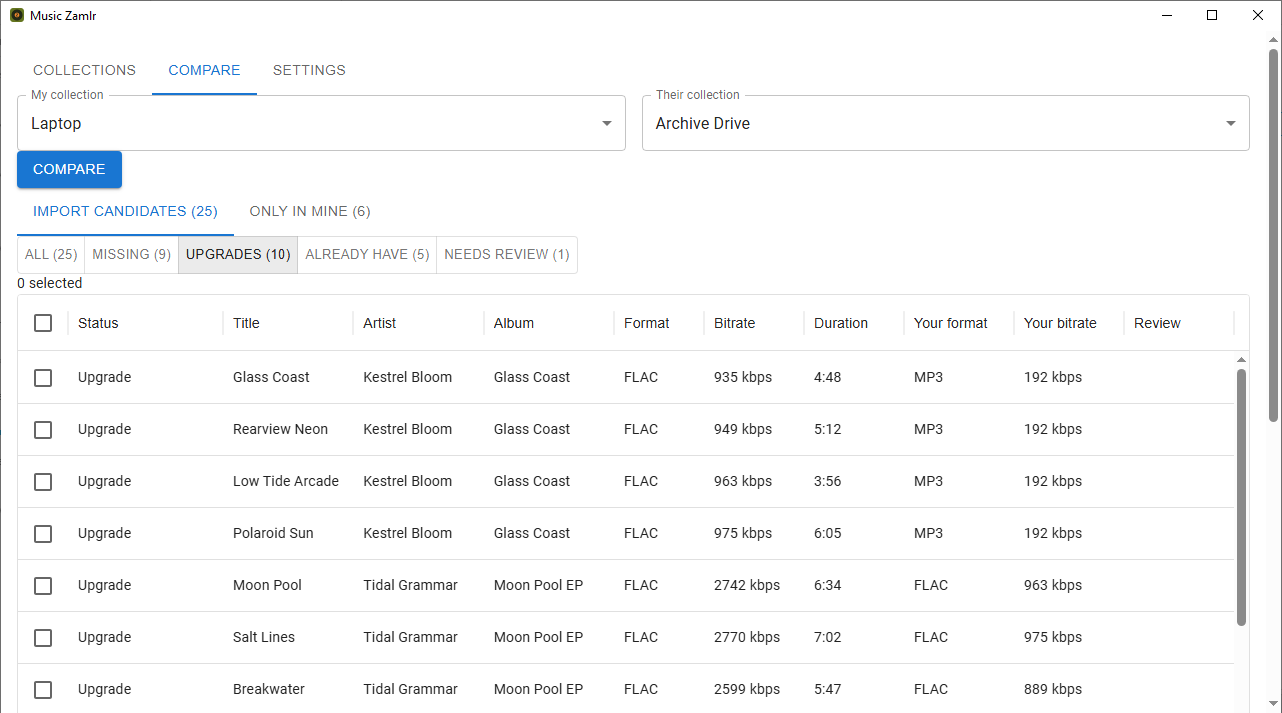
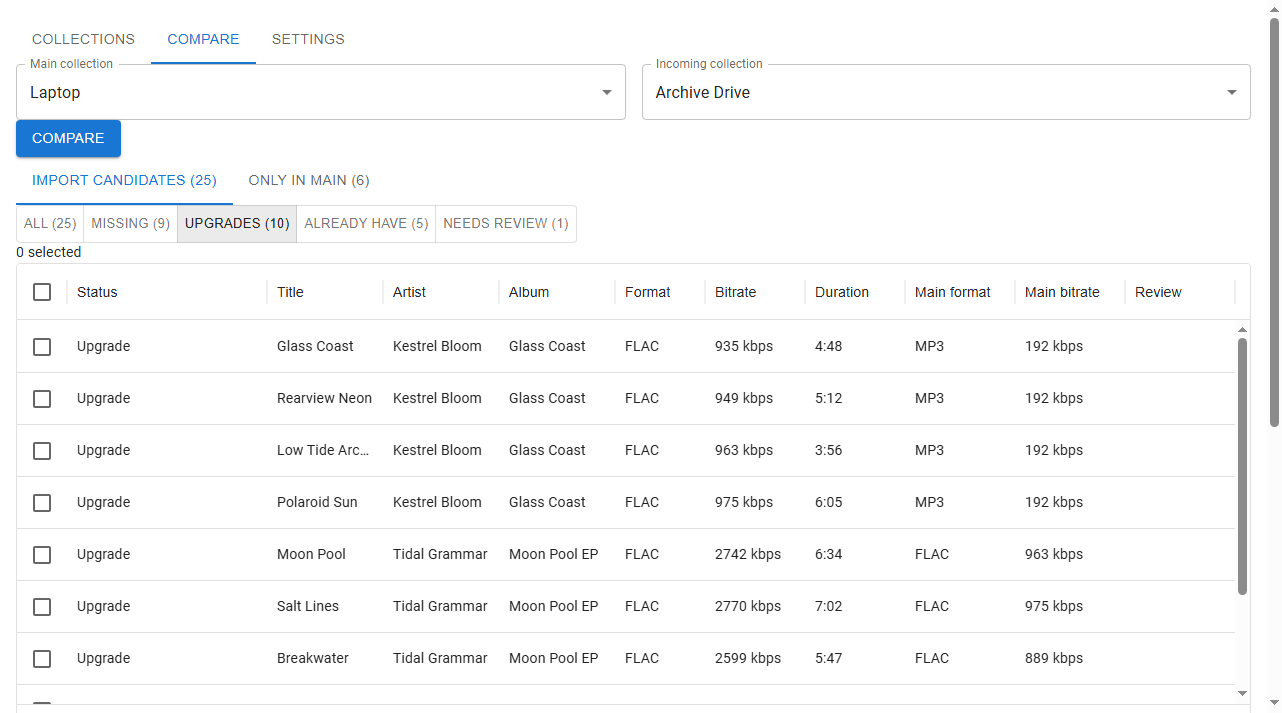
Call the two sides the main and the incoming collection
The sides are now the main collection, which keeps the music and
receives the import, and the incoming collection, which the tracks come
from. The words that pointed at a side follow: "Main format" and "Main
bitrate" in the table, "Main" and "Incoming" in the preview, and the
actions "Move the replaced file aside" and "Delete the replaced file".
The preview says "existing files" where an overwrite can hit a file
outside the main collection.

The code keeps mine and theirs, which appear in the API and in about
250 identifiers. CONTRIBUTING says which is which. The README and its
screenshot use the new names.

diff --git a/frontend/src/components/DiffView.tsx b/frontend/src/components/DiffView.tsx
@@ -113,10 +113,10 @@ const diffColumns: GridColDef[] = [
     width: 100,
     valueFormatter: (value: number | null) => duration(value),
   },
-  { field: "mine_format", headerName: "Your format", width: 110 },
+  { field: "mine_format", headerName: "Main format", width: 110 },
   {
     field: "mine_bit_rate",
-    headerName: "Your bitrate",
+    headerName: "Main bitrate",
     width: 110,
     valueFormatter: (value: number | null) => bitrate(value),
   },
@@ -155,7 +155,7 @@ function describeStatus(
   rejected: boolean,
 ): string {
   // The rejection wording is short because the evidence is already on the
-  // row: "Your format" and "Your bitrate" carry the file it was compared
+  // row: "Main format" and "Main bitrate" carry the file it was compared
   // against, so the label only has to say why the pairing was refused.
   //
   // No error rate. 0.27 means nothing to a reader, and a number invites the
@@ -166,12 +166,13 @@ function describeStatus(
   if (bucket === "upgrade_available") return "Upgrade";
   if (bucket === "already_have") return "Already have";
   // Checked, not asserted in a comment: a fifth bucket would break the build
-  // here rather than quietly falling through to the "replaces yours" label.
+  // here rather than quietly falling through to the "replaces a main file"
+  // label.
   bucket satisfies "needs_review";
   if (resolvedTo === undefined) return "Needs review";
   if (resolvedTo === null) return "Resolved · import as new";
   /* From here on, resolvedTo can only be a number. */
-  return "Resolved · replaces yours";
+  return "Resolved · replaces a main file";
 }
 
 export function DiffView({
@@ -503,11 +504,11 @@ export function DiffView({
         {diffError && <Alert severity="error">Error: {diffError}</Alert>}
         <Stack direction="row" spacing={2}>
           <FormControl fullWidth>
-            <InputLabel id="mine-label">My collection</InputLabel>
+            <InputLabel id="mine-label">Main collection</InputLabel>
             <Select
               labelId="mine-label"
               value={shownMineId}
-              label="My collection"
+              label="Main collection"
               onChange={(e) => setMineId(Number(e.target.value))}
             >
               {collections.map((c) => (
@@ -518,11 +519,11 @@ export function DiffView({
             </Select>
           </FormControl>
           <FormControl fullWidth>
-            <InputLabel id="theirs-label">Their collection</InputLabel>
+            <InputLabel id="theirs-label">Incoming collection</InputLabel>
             <Select
               labelId="theirs-label"
               value={shownTheirsId}
-              label="Their collection"
+              label="Incoming collection"
               onChange={(e) => setTheirsId(Number(e.target.value))}
             >
               {collections.map((c) => (
@@ -612,7 +613,7 @@ export function DiffView({
                   label={`Import candidates (${formatCount(rows.length)})`}
                 />
                 <Tab
-                  label={`Only in mine (${formatCount(diff.match_counts.only_in_mine)})`}
+                  label={`Only in main (${formatCount(diff.match_counts.only_in_mine)})`}
                 />
               </Tabs>
 

diff --git a/frontend/src/components/ImportSettings.tsx b/frontend/src/components/ImportSettings.tsx
@@ -75,7 +75,7 @@ export function ImportSettings({
           <FormControlLabel
             value="mirror"
             control={<Radio />}
-            label="Mirror their folders"
+            label="Mirror the incoming folders"
           />
           <FormControlLabel
             value="flat"
@@ -98,7 +98,8 @@ export function ImportSettings({
               <>
                 <Typography variant="body2">Keep both tracks</Typography>
                 <Typography variant="caption" color="text.secondary">
-                  Your file stays where it is; theirs is added alongside it.
+                  The main file stays where it is; the incoming file is added
+                  beside it.
                 </Typography>
               </>
             }
@@ -109,10 +110,12 @@ export function ImportSettings({
             control={<Radio sx={{ py: 0 }} />}
             label={
               <>
-                <Typography variant="body2">Move my track aside</Typography>
+                <Typography variant="body2">
+                  Move the replaced file aside
+                </Typography>
                 <Typography variant="caption" color="text.secondary">
-                  Your file moves to a <code>_superseded</code> folder under the
-                  destination. You can put it back.
+                  The main file moves to a <code>_superseded</code> folder under
+                  the destination. You can put it back.
                 </Typography>
               </>
             }
@@ -123,9 +126,11 @@ export function ImportSettings({
             control={<Radio sx={{ py: 0 }} />}
             label={
               <>
-                <Typography variant="body2">Delete my track</Typography>
+                <Typography variant="body2">
+                  Delete the replaced file
+                </Typography>
                 <Typography variant="caption" color="error">
-                  Your file is deleted. This cannot be undone.
+                  The main file is deleted. This cannot be undone.
                 </Typography>
               </>
             }

diff --git a/frontend/src/components/ImportPreviewDialog.tsx b/frontend/src/components/ImportPreviewDialog.tsx
@@ -54,7 +54,7 @@ function describeDestructive(counts: Record<string, number>): string {
     parts.length === 1
       ? parts[0]
       : `${parts.slice(0, -1).join(", ")} and ${parts[parts.length - 1]}`;
-  return `This will ${list} of your existing files.`;
+  return `This will ${list} of the existing files.`;
 }
 
 interface ComparisonRow {
@@ -167,7 +167,7 @@ export function ImportPreviewDialog({
               </Alert>
             ) : (
               <Alert severity="success" sx={{ mt: 2 }}>
-                Nothing of yours will be deleted or overwritten.
+                No existing file will be deleted or overwritten.
               </Alert>
             )}
           </>
@@ -188,8 +188,8 @@ export function ImportPreviewDialog({
                 <TableHead>
                   <TableRow>
                     <TableCell sx={{ width: "20%" }} />
-                    <TableCell sx={{ width: "40%" }}>Yours</TableCell>
-                    <TableCell sx={{ width: "40%" }}>Theirs</TableCell>
+                    <TableCell sx={{ width: "40%" }}>Main</TableCell>
+                    <TableCell sx={{ width: "40%" }}>Incoming</TableCell>
                   </TableRow>
                 </TableHead>
                 <TableBody>
@@ -216,7 +216,7 @@ export function ImportPreviewDialog({
                     );
                   })}
                   <TableRow>
-                    <TableCell>Your file</TableCell>
+                    <TableCell>Main file</TableCell>
                     <TableCell colSpan={2} sx={{ wordBreak: "break-all" }}>
                       {match.mine.file_path}
                     </TableCell>
@@ -251,7 +251,7 @@ export function ImportPreviewDialog({
                     />
                     {op.overwrites && (
                       <Chip
-                        label="replaces yours"
+                        label="replaces a main file"
                         size="small"
                         color="error"
                         sx={{ ml: 0.5 }}

diff --git a/frontend/src/components/ResolveMatchDialog.tsx b/frontend/src/components/ResolveMatchDialog.tsx
@@ -82,16 +82,16 @@ export function ResolveMatchDialog({
   return (
     // `open` unconditionally: the early return above is what closes it.
     <Dialog open onClose={onCancel} maxWidth="md" fullWidth>
-      <DialogTitle>Which of your files does this replace?</DialogTitle>
+      <DialogTitle>Which main file does this replace?</DialogTitle>
       <DialogContent dividers>
-        {/* Their track first. The dialog asks which file "this" replaces, so
+        {/* The incoming track first. The dialog asks which file "this" replaces, so
             it has to show what "this" is — otherwise the answer depends on
             remembering the grid row behind the dialog. Artist and title lead
             here because they identify the song; for the candidates below they
             are identical by construction, so those lead with the file name. */}
         <Box sx={{ mb: 3 }}>
           <Typography variant="overline" color="text.secondary">
-            Their track
+            Incoming track
           </Typography>
           <Typography variant="body2">
             {text(ambiguity.theirs.artist)} — {text(ambiguity.theirs.title)}
@@ -102,7 +102,7 @@ export function ResolveMatchDialog({
         </Box>
 
         <Typography variant="overline" color="text.secondary">
-          Your files
+          Main files
         </Typography>
         <RadioGroup
           value={pending}
@@ -140,8 +140,7 @@ export function ResolveMatchDialog({
               <>
                 <Typography variant="body2">None of These</Typography>
                 <Typography variant="caption" color="text.secondary">
-                  Import as a new track. None of your files is the same
-                  recording.
+                  Import as a new track. No main file is the same recording.
                 </Typography>
               </>
             }

diff --git a/frontend/src/components/FormatOrderView.tsx b/frontend/src/components/FormatOrderView.tsx
@@ -140,8 +140,9 @@ export function FormatOrderView({ onSaved }: FormatOrderViewProps) {
         {blocked && <Alert severity="warning">{blocked}</Alert>}
         {lossyAboveLossless && (
           <Alert severity="warning">
-            A lossy tier is above a lossless one. With <b>Delete my track</b>,
-            an import can then replace a lossless file with a lossy one.
+            A lossy tier is above a lossless one. With{" "}
+            <b>Delete the replaced file</b>, an import can then replace a
+            lossless file with a lossy one.
           </Alert>
         )}
         {/* The list the server sends, never a comparison made here: the server

diff --git a/README.md b/README.md
@@ -16,9 +16,9 @@ those tracks and copies only them.
 
 https://github.com/user-attachments/assets/1972c370-2eff-484c-a1f4-564796d93ea8
 
-The video adds two collections, compares them, settles a track that matches
-two of your files, and imports nine tracks. The two collections are demo
-data: the audio is synthetic, and all artist and track names are invented.
+The video adds two collections, compares them, settles a track that matches two
+files in the main collection, and imports nine tracks. The two collections are
+demo data: the audio is synthetic, and all artist and track names are invented.
 The typing and the waits play faster than real time.
 
 ## How it works
@@ -196,7 +196,7 @@ Two things are different from the desktop program:
    slow one, because it reads files to compare them. The tool stores hashes and
    fingerprints in its database, so later comparisons are faster.
 4. Examine the result table. Each track belongs to one group: missing, upgrade
-   available, already have, needs review, or only in yours.
+   available, already have, needs review, or only in main.
 5. Select the tracks to import. Select a destination folder, a folder
    structure, and what must happen to a file that an upgrade replaces (see
    [What happens to a replaced file](#what-happens-to-a-replaced-file)).
@@ -238,17 +238,18 @@ new comparison.
 Before an import, you select one of three actions for the files that the
 upgrades replace:
 
-- **Keep both tracks.** Your file stays where it is. The tool copies the
+- **Keep both tracks.** The main file stays where it is. The tool copies the
   better file into the destination folder as a separate file.
-- **Move my track aside.** Your file moves into a folder named `_superseded`,
-  directly under the destination folder. All moved files go into this one
-  folder, without subfolders. If a file with the same name is already there,
-  the moved file gets a numbered suffix. You can move a file back by hand.
-- **Delete my track.** The tool deletes your file after it writes the better
-  copy. You cannot undo this.
+- **Move the replaced file aside.** The replaced file moves into a folder named
+  `_superseded`, directly under the destination folder. All moved files go into
+  this one folder, without subfolders. If a file with the same name is already
+  there, the moved file gets a numbered suffix. You can move a file back by
+  hand.
+- **Delete the replaced file.** The tool deletes the replaced file after it
+  writes the better copy. You cannot undo this.
 
-If you are not sure that every upgrade is correct, select **Move my track
-aside**. It keeps your file, and you can move the file back.
+If you are not sure that every upgrade is correct, select **Move the replaced
+file aside**. It keeps the replaced file, and you can move the file back.
 
 The scanner never reads a folder named `_superseded`, in any letter case and at
 any depth in a collection. This keeps moved files out of later comparisons. It
@@ -285,12 +286,12 @@ blank.
 
 - If the sound differs, the tags cannot overrule it. The track goes to
   **missing**, and the table shows `Missing · audio differs`. The columns
-  `Your format` and `Your bitrate` then show the format and bitrate of the file
+  `Main format` and `Main bitrate` then show the format and bitrate of the file
   that the tool compared.
 - If `fpcalc` cannot read a file, or if a file is shorter than about 12
   seconds, this rule gives no answer. The next rule then decides.
-- If two of your files have the same sound, the track goes to **needs review**,
-  and you decide.
+- If two files in the main collection have the same sound, the track goes to
+  **needs review**, and you decide.
 - A remaster can count as a different recording. A remaster can change the
   speed or the balance of the sound, and the fingerprint then changes too. The
   tool then offers the remaster as missing. That is the safe direction: the
@@ -309,10 +310,10 @@ The third rule has two consequences that appear in the result table:
 
 - A track with a blank artist or a blank title is never matched by the third
   rule. The second rule can still match it.
-- If two or more of your tracks fall within the 2-second window, the tool does
-  not choose one. The track goes to **needs review**, and you decide. An
-  obvious duplicate therefore waits for you. The tool never makes an uncertain
-  decision on your behalf.
+- If two or more tracks in the main collection fall within the 2-second window,
+  the tool does not choose one. The track goes to **needs review**, and you
+  decide. An obvious duplicate therefore waits for you. The tool never makes an
+  uncertain decision on your behalf.
 
 **A file that cannot be read.** A comparison does not stop at a file that it
 cannot read. A warning above the result table lists each such file. The tool
@@ -322,8 +323,8 @@ was deleted, after its scan. Scan the collection of that file again.
 
 ## How the tool decides that a copy is better
 
-After the tool pairs your track with a track of theirs, it compares the two
-files:
+After the tool pairs a track in the main collection with an incoming track,
+it compares the two files:
 
 1. The format decides first. The lossless formats (FLAC, ALAC, WAV, AIFF, TTA,
    Monkey's Audio, TAK, OptimFROG, WavPack, and WMA Lossless) and DSD have
@@ -331,10 +332,10 @@ files:
    and WMA) have a lower rank. A file with a higher rank is always better,
    whatever its bitrate. You can change this order. See
    [The order of the formats](#the-order-of-the-formats).
-2. If both files are lossless, bit depth and sample rate decide.
-   Their file is better only if neither value is lower than yours and at least
-   one value is higher. Bitrate does not count here. A lossless bitrate shows
-   how well the sound compresses, not how good the sound is.
+2. If both files are lossless, bit depth and sample rate decide. The incoming
+   file is better only if neither value is lower than in the main file and at
+   least one value is higher. Bitrate does not count here. A lossless bitrate
+   shows how well the sound compresses, not how good the sound is.
 3. If one file is DSD and the other file is lossless, neither file is better.
    DSD records sound in a different way, so the numbers of the two files do
    not compare. If both files are DSD, the higher sample rate is better.
@@ -344,9 +345,10 @@ files:
    track too. The tool never offers to replace a file whose quality it did not
    measure.
 
-Every upgrade in the table is a file that **Delete my track** removes from your
-collection. The rule can be wrong about a track, for example about a file that
-was converted to a higher sample rate. The deletion is then permanent.
+Every upgrade in the table is a file that **Delete the replaced file** removes
+from the main collection. The rule can be wrong about a track, for example about
+a file that was converted to a higher sample rate. The deletion is then
+permanent.
 
 The rule for lossless files has three consequences:
 
@@ -396,9 +398,10 @@ it ran. If you store a different order after that, the comparison says that it
 is out of date. Select **Compare** again to get current results.
 
 > **Warning.** You can put a lossy tier above a lossless tier. The tool then
-> offers a lossy file as an upgrade of a lossless file. With **Delete my
-> track**, the import deletes your lossless file. The Settings tab shows a
-> warning while the order has a lossy tier above a lossless tier.
+> offers a lossy file as an upgrade of a lossless file. With **Delete the
+> replaced file**, the import deletes the lossless file in the main
+> collection. The Settings tab shows a warning while the order has a lossy
+> tier above a lossless tier.
 
 ## Design notes
 
@@ -432,7 +435,7 @@ deleted only after its replacement is written. An uncertain match goes to you.
 **The preview warns before an import that cannot fit.** It compares the free
 space on the destination drive against the total size of the files to copy,
 plus every file that moves into `_superseded` from a different drive. Such a
-move copies the file, so the destination drive holds both your old file and
+move copies the file, so the destination drive holds both the old file and
 the better one. The tool warns and lets you continue, because you can clear
 space before you confirm.
 

diff --git a/CONTRIBUTING.md b/CONTRIBUTING.md
@@ -194,6 +194,10 @@ that you build on a newer system does not install on an older one.
   API contract.
 - `frontend/` is the React interface. `frontend/src-tauri/` is the desktop
   window.
+- The interface calls the two sides of a comparison the main collection and
+  the incoming collection. The code calls them `mine` and `theirs`, for
+  example `mine_collection_id` and `only_in_mine`. `mine` is the main
+  collection, and `theirs` is the incoming collection.
 
 ### Rules for the backend
 
